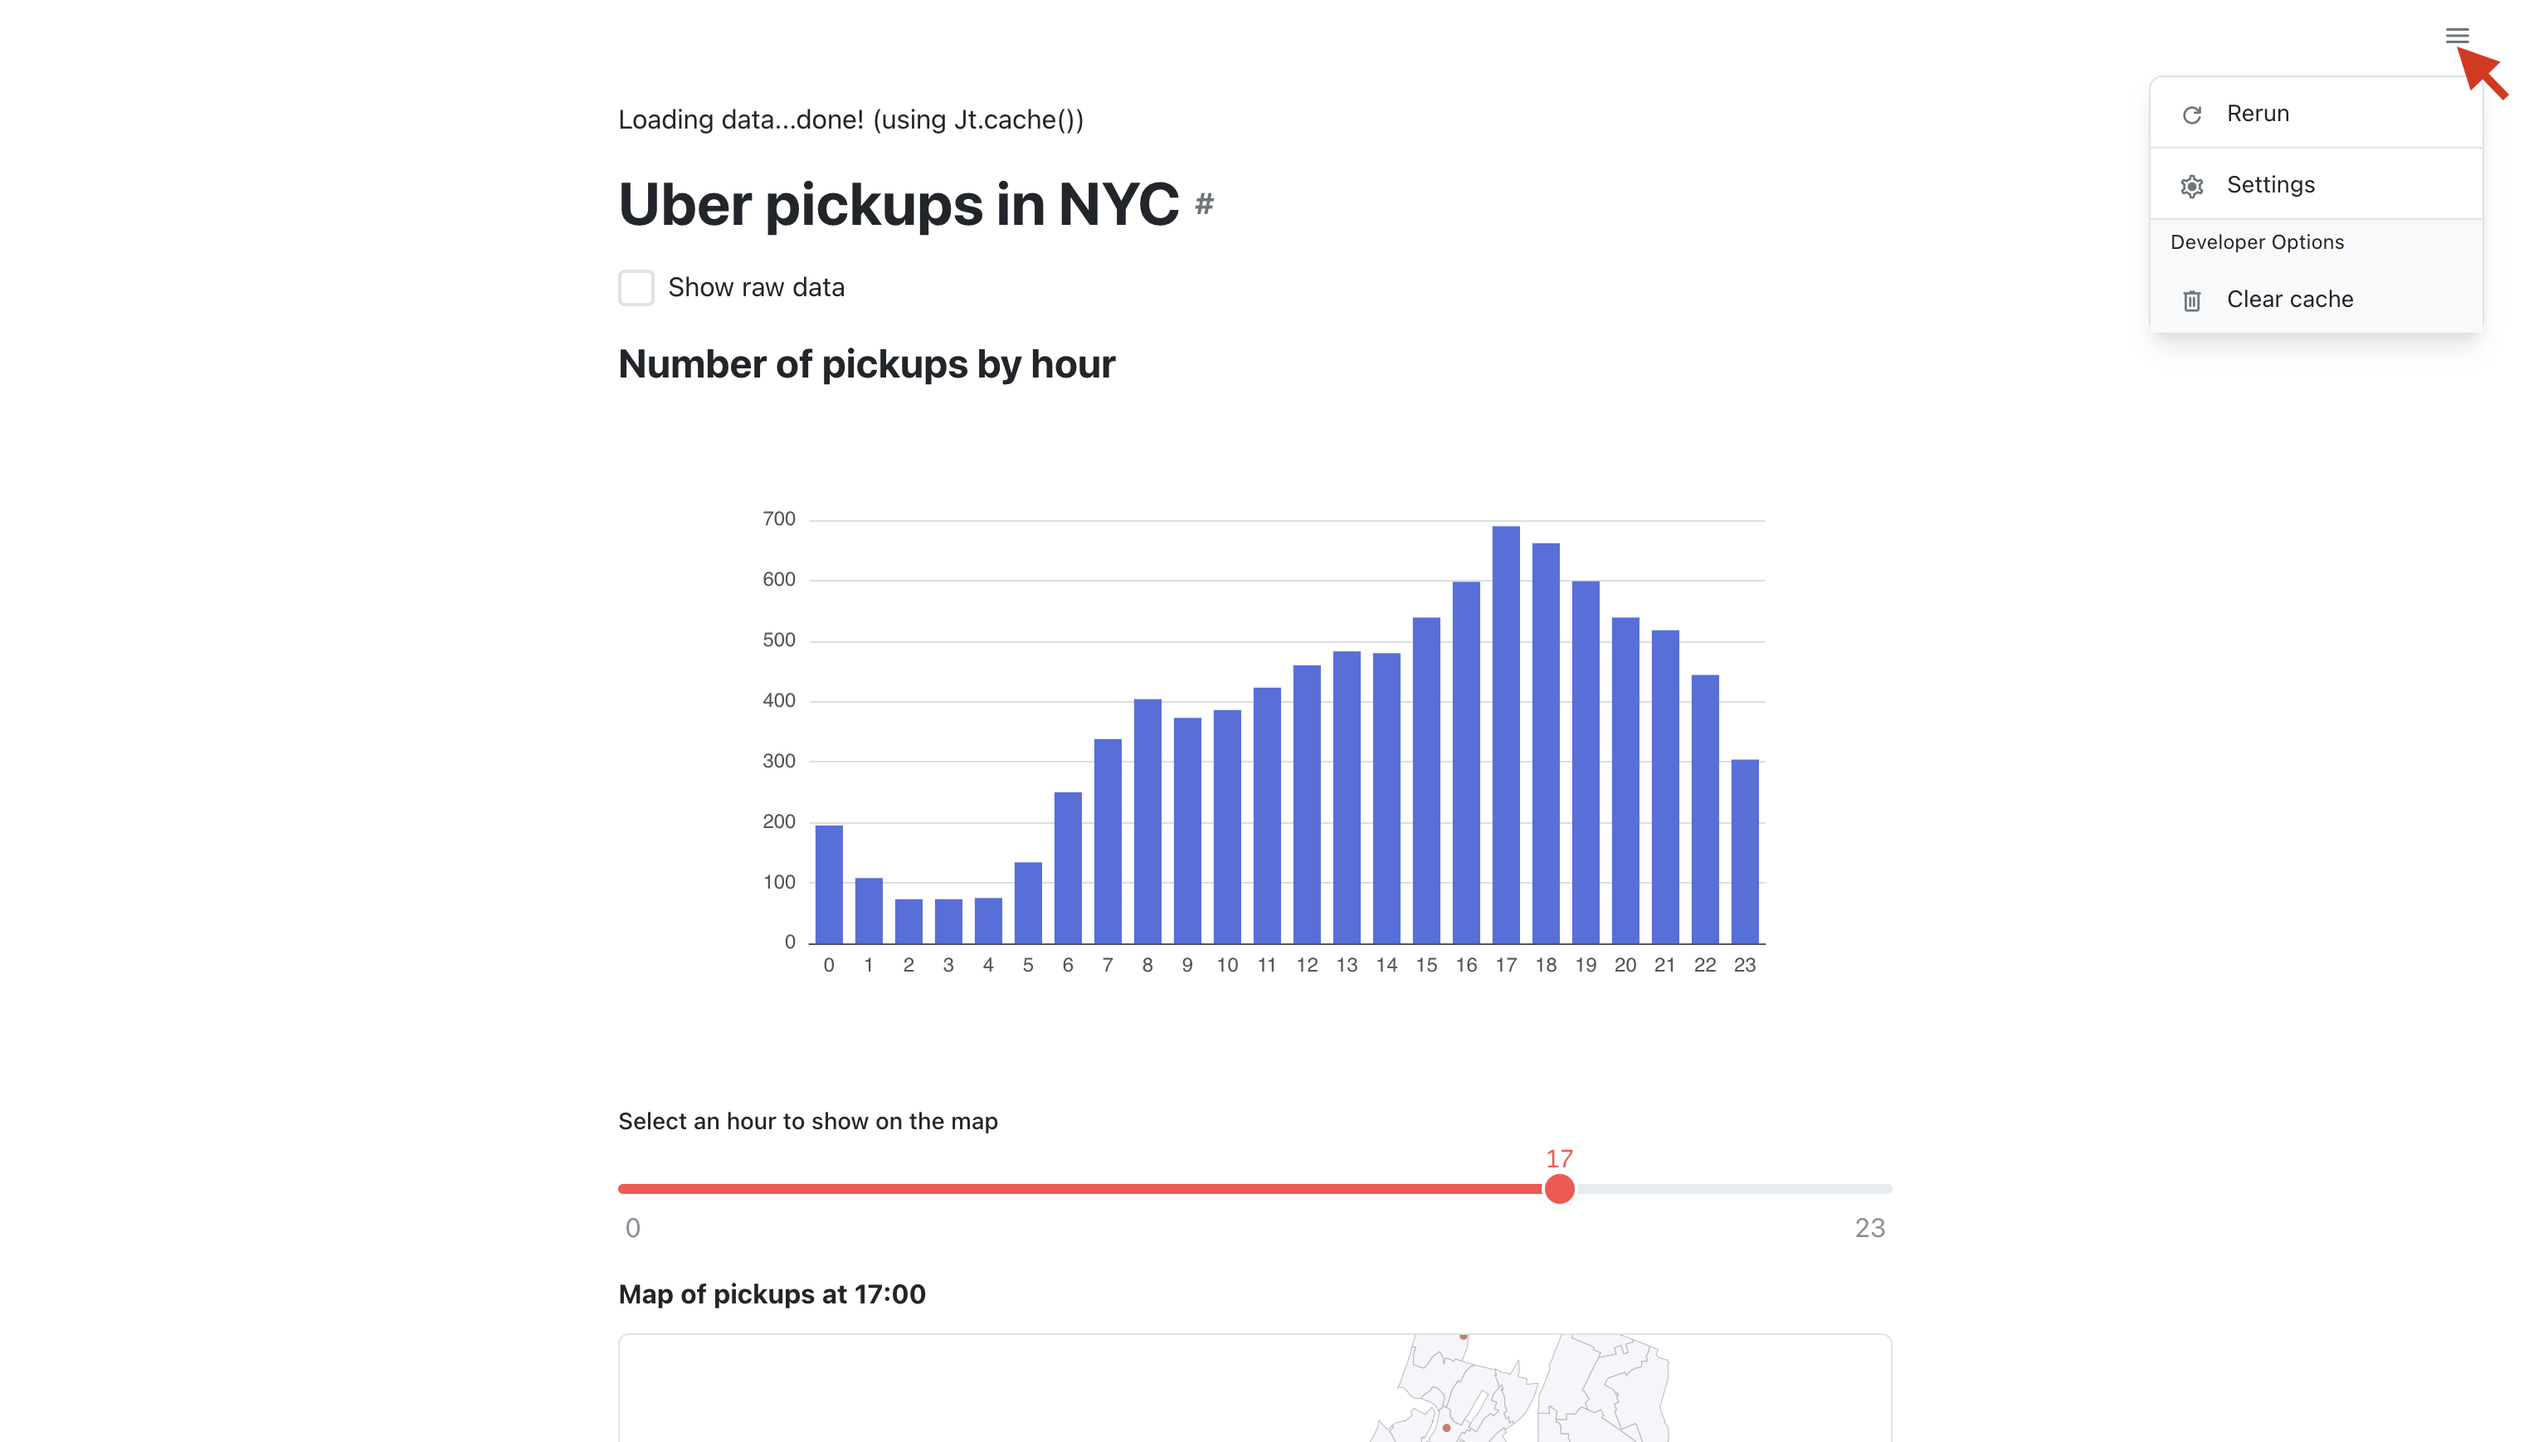
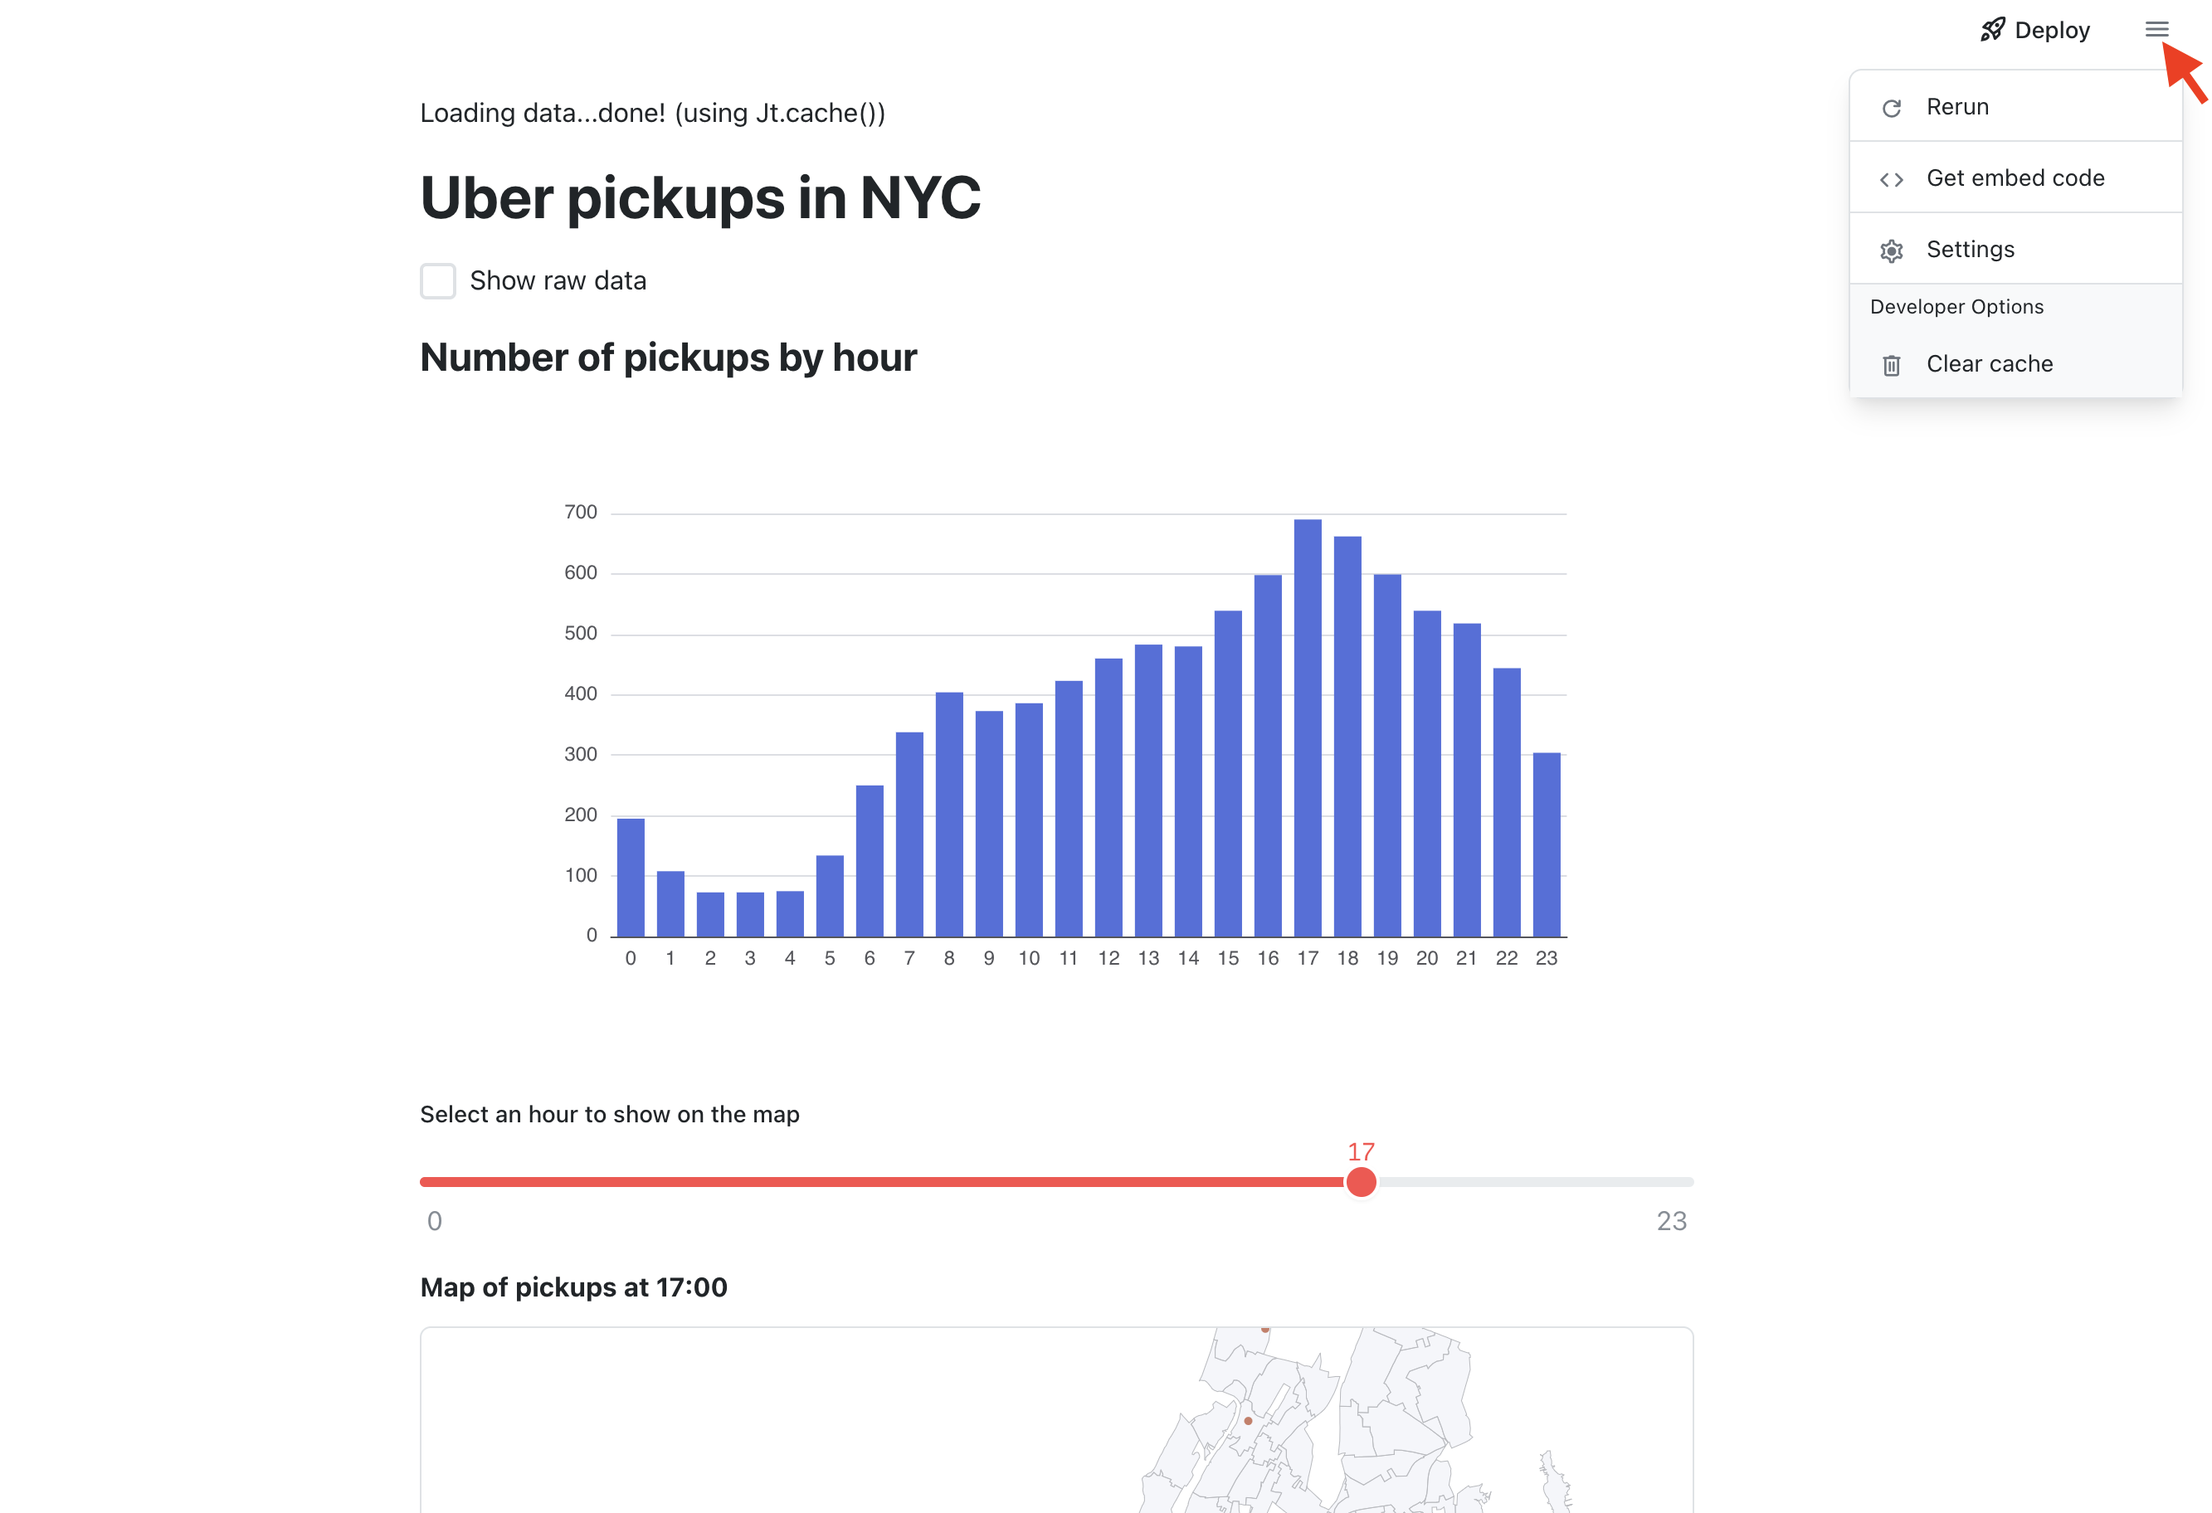
add embed doc

diff --git a/content/deploy/embed-your-app/_index.md b/content/deploy/embed-your-app/_index.md
@@ -1,0 +1,194 @@
+---
+title: Embed your app
+slug: /deploy/embed-your-app
+---
+
+# Embed your app
+
+Embedding Javelit apps enriches your content by integrating interactive, data-driven applications directly within your pages. 
+Whether you're writing a blog post, a technical document or a demo, {/* not supported yet  or sharing resources on platforms like Medium, Notion, or even StackOverflow, */}
+embedding Javelit apps adds a dynamic component to your content. This allows your audience to interact with your ideas, rather than merely reading about them or looking at screenshots.
+
+Javelit supports both [iframe](#embedding-with-iframes) and [oEmbed](#embedding-with-oembed) methods for embedding **public** apps. 
+This flexibility enables you to share your apps across a wide array of platforms, broadening your app's visibility and impact. In this guide, we'll cover how to use both methods effectively to share your Javelit apps with the world.
+
+<Important>
+This feature is not supported on Safari yet. 
+</Important>
+
+## Embedding with iframes
+
+To embed a public app, add the query parameter `/?embed=true` to the end of your app URL.
+
+For example, say you want to embed the <a href="https://jbang-production-5e9a.up.railway.app/" target="_blank">Temperature demo app</a>. 
+The URL to include in your iframe is: `https://jbang-production-5e9a.up.railway.app/?embed=true`:
+
+```javascript
+<iframe
+  src="https://jbang-production-5e9a.up.railway.app/?embed=true"
+  style="height: 350px; width: 100%;"
+></iframe>
+```
+
+<iframe 
+src={"https://jbang-production-5e9a.up.railway.app/?embed=true"}
+style={{height: "350px",  width: "100%", outline: "none"}}>
+</iframe>
+
+<br/>  
+In addition to allowing you to embed apps via iframes, the `?embed=true` query parameter also does the following:
+
+- removes the "Built with javelit" bottom right label
+- adds a grey "Built with javelit" frame with a link to open the app in fullscreen 
+
+{/*
+
+- Removes the toolbar with the app menu icon (<i style={{ verticalAlign: "-.25em" }} className={{ class: "material-icons-sharp" }}>more_vert</i>).
+- Removes the padding at the top and bottom of the app.
+- Removes the colored line from the top of the app.
+*/}
+{/* NOT IMPLEMENTED YET 
+For granular control over the embedding behavior, Javelit allows you to specify one or more instances of the `?embed_options` query parameter (e.g. to show the toolbar, open the app in dark theme, etc). [Click here for a full list of Embed options.](#embed-options)
+*/}
+
+<Tip>
+**You don't need to write the iframe code manually!**  
+Once your app is deployed, click on the app chrome, then click on _Get embed code_.
+![App menu](/images/app-menu/app-menu-get-embed-code.png)
+The iframe html snippet will be written to your clipboard. 
+</Tip>
+
+## Embedding with oEmbed
+
+Javelit's oEmbed support allows for a simpler embedding experience. 
+You can directly drop a Javelit app's URL into a platform that supports the Oembed protocol, the embedded app will automatically appear! 
+
+Well, this is the theory, because major platform like Medium, Ghost, or Notion page requires an Oembed provider URL to be whitelisted 
+through services like [embed.ly](embed.ly) and [iframely.com](iframely.com).  
+As of today, the Oembed server is implemented within the Javelit app itself. This means all apps server are their own Oembed server and they 
+cannot be whitelisted in the services above.
+While the current solution is enough to support Oembed in a Wordpress server you own, it won't work with platforms that 
+require a specific Oembed server to be whitelisted.
+
+We are working on this issue. 
+In the meantime, if you need help to get a whitelisted Oembed server, please reach out on the [forum](https://github.com/javelit/javelit/discussions). 
+
+{/*
+(or any of more than 700 content providers that supports oEmbed or <a href="https://embed.ly/" target="_blank">embed.ly</a>). This helps Javelit Community Cloud apps seamlessly integrate into these platforms, improving the visibility and accessibility of your apps.
+*/}
+
+{/*
+### Example
+
+When creating content in a Notion page, Medium article, or Ghost blog, you only need to paste the app's URL and hit "**Enter**." The app will then render automatically at that spot in your content. You can use your undecorated app URL without the `?embed=true` query parameter.
+
+```
+https://30days.streamlit.app/
+```
+
+Here's an example of <a href="https://github.com/chrieke" target="_blank">@chrieke</a>'s <a href="https://chrieke-prettymapp-streamlit-prettymappapp-1k0qxh.streamlit.app/" target="_blank">Prettymapp app</a> embedded in a Medium article:
+
+<Image src="/images/streamlit-community-cloud/oembed.gif" alt="Example: Embed an app in a Medium article with oEmbed" clean />
+
+<Tip>
+
+Ensure the platform hosting the embedded Javelit app supports oEmbed or <a href="https://embed.ly/" target="_blank">embed.ly</a>.
+
+</Tip>
+
+### Key Sites for oEmbed
+
+oEmbed should work out of the box for several platforms including but not limited to:
+
+- <a target="_blank" href="https://medium.com/">Medium</a>
+- <a target="_blank" href="https://notion.so/">Notion</a>
+- <a target="_blank" href="https://www.looker.com/">Looker</a>
+- <a target="_blank" href="https://www.tableau.com/">Tableau</a>
+- <a target="_blank" href="https://ghost.org/">Ghost</a>
+- <a target="_blank" href="https://www.discourse.org/">Discourse</a>
+- <a target="_blank" href="https://stackoverflow.com/">StackOverflow</a>
+- <a target="_blank" href="https://www.w3schools.com/">W3</a>
+- <a target="_blank" href="https://www.reddit.com/">Reddit</a>
+
+Please check the specific platform's documentation to verify support for oEmbed.
+
+### iframe versus oEmbed
+
+The only noteworthy differences between the methods is that iframing allows you to customize the app's embedding behavior (e.g. showing the toolbar, opening the app in dark theme, etc) using the various `?embed_options` described in the next section.
+
+## Embed options
+
+When [Embedding with iframes](#embedding-with-iframes), Javelit allows you to specify one or more instances of the `?embed_options` query parameter for granular control over the embedding behavior.
+
+Both `?embed` and `?embed_options` are invisible to [`st.query_params`](/develop/api-reference/caching-and-state/st.query_params) and its precursors, [`st.experimental_get_query_params`](/develop/api-reference/caching-and-state/st.experimental_get_query_params) and [`st.experimental_set_query_params`](/develop/api-reference/caching-and-state/st.experimental_set_query_params). You can't get or set their values.
+
+The supported values for `?embed_options` are listed below:
+
+1. Show the toolbar at the top right of the app which includes the app menu (<i style={{ verticalAlign: "-.25em" }} className={{ class: "material-icons-sharp" }}>more_vert</i>), running man, and link to GitHub.
+
+   ```javascript
+   /?embed=true&embed_options=show_toolbar
+   ```
+
+2. Show padding at the top and bottom of the app.
+
+   ```javascript
+   /?embed=true&embed_options=show_padding
+   ```
+
+3. Show the footer reading "Made with Javelit." (This doesn't apply to Javelit versions 1.29.0 and later since the footer was removed from the library.)
+
+   ```javascript
+   /?embed=true&embed_options=show_footer
+   ```
+
+4. Show the colored line at the top of the app.
+
+   ```javascript
+   /?embed=true&embed_options=show_colored_line
+   ```
+
+5. Hide the "skeleton" that appears while an app is loading.
+
+   ```javascript
+   /?embed=true&embed_options=hide_loading_screen
+   ```
+
+6. Disable scrolling for the main body of the app. (The sidebar will still be scrollable.)
+
+   ```javascript
+   /?embed=true&embed_options=disable_scrolling
+   ```
+
+7. Open the app with light theme.
+
+   ```javascript
+   /?embed=true&embed_options=light_theme
+   ```
+
+8. Open the app with dark theme.
+
+   ```javascript
+   /?embed=true&embed_options=dark_theme
+   ```
+
+You can also combine the params:
+
+```javascript
+/?embed=true&embed_options=show_toolbar&embed_options=show_padding&embed_options=show_footer&embed_options=show_colored_line&embed_options=disable_scrolling
+```
+
+### Build an embed link
+
+You can conveniently build an embed link for your app &mdash; right from your app!
+
+1. From your app at `<your-custom-subdomain>.streamlit.app`, click "**Share**" in the upper-right corner.
+2. Click "**Embed**" to access a list of selectable embed options.
+
+   ![Access embed options from the share button](/images/streamlit-community-cloud/share-menu-embed.png)
+
+3. Select your embed options and click "**Get embed link**" to copy the embed link to your clipboard.
+
+   ![Build a customized embed link for your app from the share button](/images/streamlit-community-cloud/share-menu-embed-url.png)
+
+*/}

diff --git a/content/develop/concepts/architecture/app-chrome.md b/content/develop/concepts/architecture/app-chrome.md
@@ -34,6 +34,9 @@ As a shortcut, without opening the app menu, you can rerun your app by pressing 
 keyboard (if you aren't currently focused on an input element).
 */}
 
+### Get embed code
+Get an html snippet to embed your Javelit app in your own website. Learn more in the [embed your app](/deploy/embed-your-app) page.  
+
 ### Settings
 
 With the "**Settings**" option, you can control the appearance of your app while it is running. 

diff --git a/content/menu.md b/content/menu.md
@@ -1281,6 +1281,8 @@ site_menu:
     ignore: true
   - category: Deploy / Railway
     url: /deploy/railway
+  - category: Deploy / Embed your app
+    url: /deploy/embed-your-app
   - category: Deploy / Snowflake
     url: /deploy/snowflake
     ignore: true
